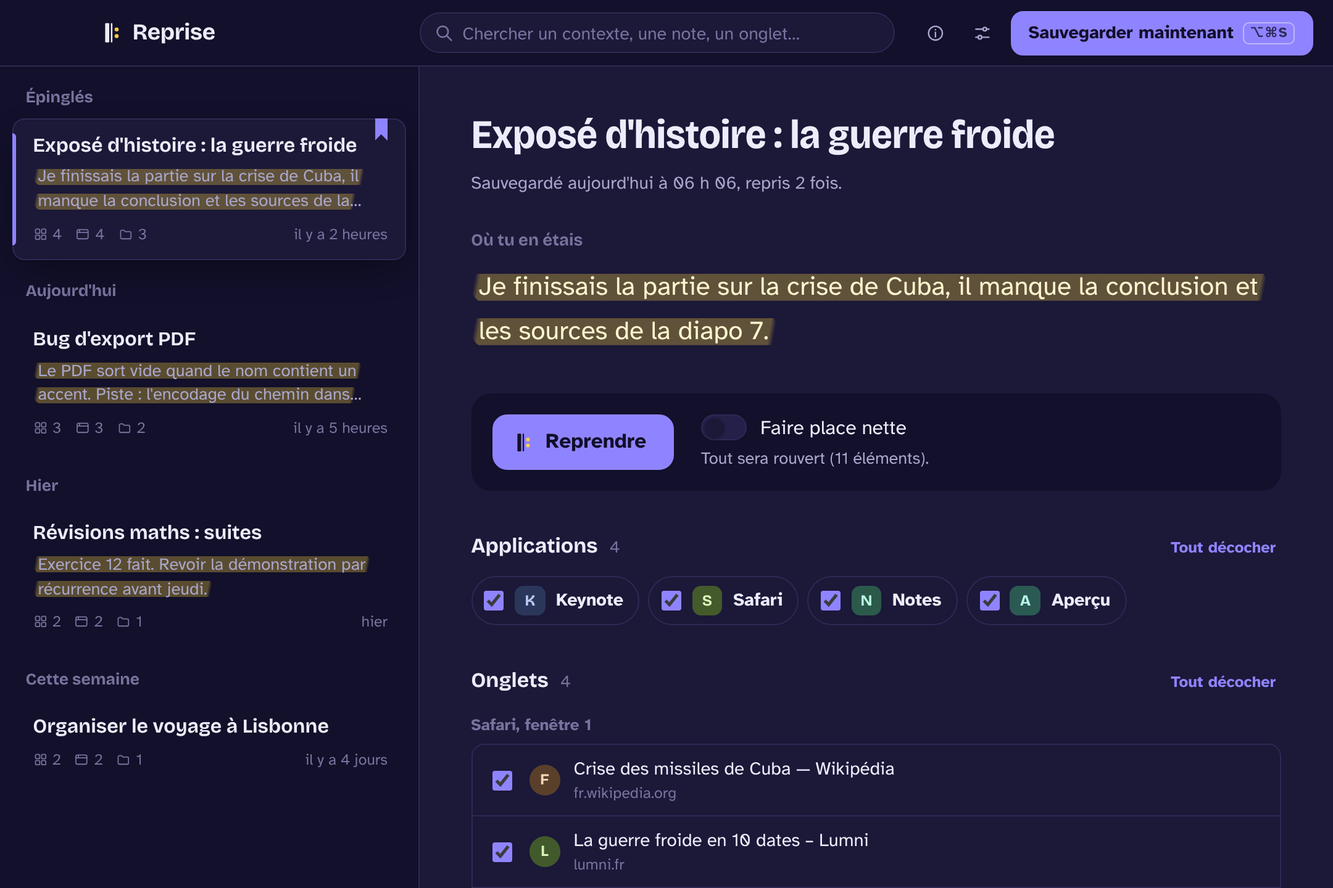
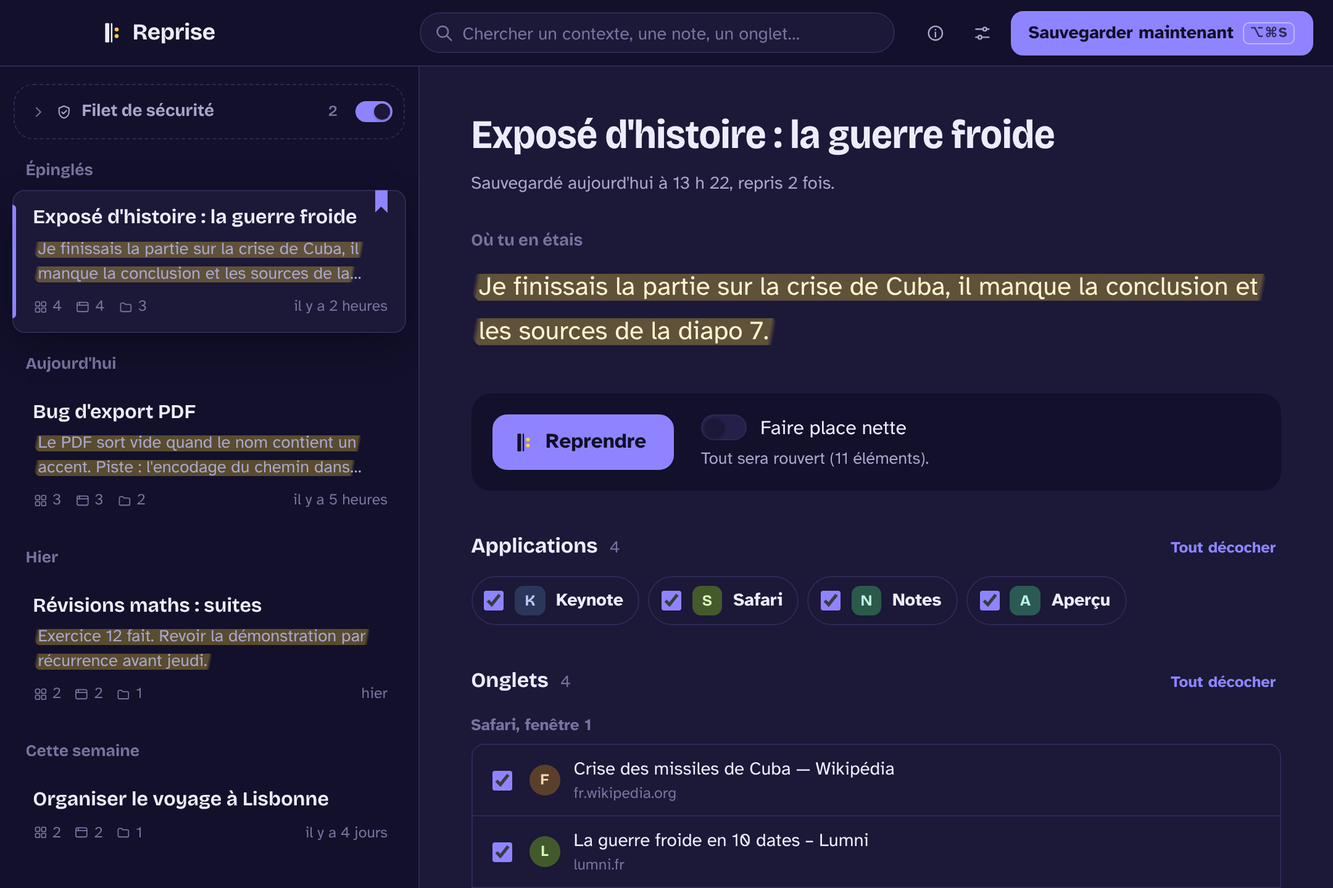
Site et lis-moi : filet de sécurité, habillages, Opera, nouvelles captures

diff --git a/docs/index.html b/docs/index.html
@@ -5,6 +5,9 @@
   <meta name="viewport" content="width=device-width, initial-scale=1">
   <title>Reprise, pour reprendre là où tu t'étais arrêté</title>
   <meta name="description" content="Une app gratuite pour Mac : sauvegarde tes apps, onglets et dossiers ouverts en un raccourci, avec une phrase « où j'en étais », et remets tout en place en un clic.">
+  <meta property="og:title" content="Reprise, pour reprendre là où tu t'étais arrêté">
+  <meta property="og:description" content="Un raccourci sauvegarde tes apps, tes onglets et tes dossiers. Un clic remet tout en place. Gratuit, pour Mac.">
+  <meta property="og:image" content="screenshots/main_light.png">
   <link rel="icon" href="icon.png">
   <style>
     @font-face { font-family: "Bricolage"; src: url("fonts/BricolageGrotesque.ttf") format("truetype"); font-weight: 200 800; font-stretch: 75% 100%; font-display: swap; }
@@ -12,72 +15,120 @@
     @font-face { font-family: "Atkinson"; src: url("fonts/AtkinsonHyperlegible-Bold.ttf") format("truetype"); font-weight: 700; font-display: swap; }
 
     :root {
-      --paper: #F3F2FA; --surface: #FFFFFF; --ink: #1C1939; --ink-2: #5D5980; --line: #DFDCEF;
-      --ribbon: #4A3ED0; --ribbon-ink: #FFFFFF; --marker: #FFE16B; --marker-ink: #1C1939;
+      --paper: #F3F2FA; --surface: #FFFFFF; --surface-2: #EAE8F6; --ink: #1C1939; --ink-2: #5D5980; --ink-3: #8C89AC; --line: #DFDCEF;
+      --ribbon: #4A3ED0; --ribbon-ink: #FFFFFF; --ribbon-soft: #E3E0FB; --marker: #FFE16B; --marker-ink: #1C1939; --dot: #F2C94C;
       color-scheme: light;
     }
     @media (prefers-color-scheme: dark) {
       :root:not([data-theme="light"]) {
-        --paper: #12102A; --surface: #1B1838; --ink: #EDECFB; --ink-2: #A9A6CC; --line: #2D2954;
-        --ribbon: #8F84FF; --ribbon-ink: #120F2B; --marker: rgba(255,214,61,.30); --marker-ink: #FFF6CF;
+        --paper: #12102A; --surface: #1B1838; --surface-2: #24204A; --ink: #EDECFB; --ink-2: #A9A6CC; --ink-3: #77739E; --line: #2D2954;
+        --ribbon: #8F84FF; --ribbon-ink: #120F2B; --ribbon-soft: #2B2660; --marker: rgba(255,214,61,.30); --marker-ink: #FFF6CF;
         color-scheme: dark;
       }
     }
     :root[data-theme="dark"] {
-      --paper: #12102A; --surface: #1B1838; --ink: #EDECFB; --ink-2: #A9A6CC; --line: #2D2954;
-      --ribbon: #8F84FF; --ribbon-ink: #120F2B; --marker: rgba(255,214,61,.30); --marker-ink: #FFF6CF;
+      --paper: #12102A; --surface: #1B1838; --surface-2: #24204A; --ink: #EDECFB; --ink-2: #A9A6CC; --ink-3: #77739E; --line: #2D2954;
+      --ribbon: #8F84FF; --ribbon-ink: #120F2B; --ribbon-soft: #2B2660; --marker: rgba(255,214,61,.30); --marker-ink: #FFF6CF;
       color-scheme: dark;
     }
     * { box-sizing: border-box; }
+    html { scroll-behavior: smooth; }
+    @media (prefers-reduced-motion: reduce) { html { scroll-behavior: auto; } }
     body { margin: 0; background: var(--paper); color: var(--ink); font: 400 1.0625rem/1.6 "Atkinson", -apple-system, system-ui, sans-serif; -webkit-font-smoothing: antialiased; }
     a { color: inherit; }
-    .wrap { max-width: 68rem; margin: 0 auto; padding: 0 1rem; }
-    header.top { display: flex; align-items: center; justify-content: space-between; padding: 1.2rem 0; }
+    img { max-width: 100%; height: auto; }
+    .wrap { max-width: 70rem; margin: 0 auto; padding: 0 1rem; }
+
+    /* En-tête */
+    header.top { display: flex; align-items: center; justify-content: space-between; gap: 1rem; padding: 1.2rem 0; }
     .brand { display: flex; align-items: center; gap: .6rem; font: 700 1.2rem "Bricolage", sans-serif; text-decoration: none; }
     .brand img { width: 2rem; height: 2rem; }
-    .gh { font-weight: 700; font-size: .95rem; text-decoration: none; color: var(--ink-2); }
-    .gh:hover { color: var(--ink); }
+    nav.links { display: flex; flex-wrap: wrap; gap: .2rem 1.1rem; font-size: .95rem; font-weight: 700; }
+    nav.links a { text-decoration: none; color: var(--ink-2); }
+    nav.links a:hover { color: var(--ink); }
 
-    .hero { padding: 3.5rem 0 2.5rem; display: grid; grid-template-columns: auto 1fr; gap: 0 2.5rem; align-items: start; }
+    /* Accroche */
+    .hero { padding: 3rem 0 2.5rem; display: grid; grid-template-columns: auto 1fr; gap: 0 2.5rem; align-items: start; }
     .sign { width: 4.6rem; height: 6.2rem; color: var(--ink); margin-top: .6rem; }
     h1 { font: 700 clamp(2.4rem, 6vw, 4.4rem)/1.02 "Bricolage", sans-serif; font-stretch: 88%; letter-spacing: -.025em; margin: 0 0 1.2rem; max-width: 14ch; }
     .lede { font-size: 1.25rem; color: var(--ink-2); max-width: 36rem; margin: 0 0 1.8rem; }
-    .lede .m { color: var(--marker-ink); background: linear-gradient(100deg, transparent .15em, var(--marker) .35em, var(--marker) calc(100% - .35em), transparent calc(100% - .15em)) 0 70% / 100% 78% no-repeat; padding: 0 .25em; -webkit-box-decoration-break: clone; box-decoration-break: clone; }
+    .m { color: var(--marker-ink); background: linear-gradient(100deg, transparent .15em, var(--marker) .35em, var(--marker) calc(100% - .35em), transparent calc(100% - .15em)) 0 70% / 100% 78% no-repeat; padding: 0 .25em; -webkit-box-decoration-break: clone; box-decoration-break: clone; }
     .cta { display: flex; flex-wrap: wrap; align-items: center; gap: .8rem 1.2rem; }
     .btn { display: inline-flex; align-items: center; gap: .6rem; background: var(--ribbon); color: var(--ribbon-ink); text-decoration: none; font-weight: 700; padding: .85rem 1.3rem; border-radius: 12px; }
     .btn:hover { filter: brightness(1.08); }
+    .btn.ghost { background: transparent; color: var(--ink); border: 1px solid var(--line); }
     .fine { font-size: .9rem; color: var(--ink-2); }
 
-    .shot { margin: 1rem 0 4rem; border-radius: 14px; overflow: hidden; border: 1px solid var(--line); box-shadow: 0 30px 70px -30px rgba(28,25,57,.45); background: var(--surface); }
-    .shot img { display: block; width: 100%; height: auto; }
+    .shot { margin: 1rem 0 4.5rem; border-radius: 14px; overflow: hidden; border: 1px solid var(--line); box-shadow: 0 30px 70px -30px rgba(28,25,57,.45); background: var(--surface); }
+    .shot img { display: block; width: 100%; }
+    .shot .dark { display: none; }
+    @media (prefers-color-scheme: dark) { .shot .light { display: none; } .shot .dark { display: block; } }
 
-    .steps { display: grid; grid-template-columns: repeat(3, 1fr); gap: 1.2rem; margin-bottom: 4.5rem; }
+    /* Titres de section */
+    section { margin-bottom: 5rem; }
+    .kicker { font: 700 .85rem "Atkinson", sans-serif; letter-spacing: .06em; text-transform: uppercase; color: var(--ribbon); margin: 0 0 .5rem; }
+    h2 { font: 700 clamp(1.8rem, 3.8vw, 2.6rem)/1.08 "Bricolage", sans-serif; letter-spacing: -.015em; margin: 0 0 1rem; }
+    .intro { color: var(--ink-2); max-width: 40rem; margin: 0 0 2rem; font-size: 1.1rem; }
+
+    /* Trois gestes */
+    .steps { display: grid; grid-template-columns: repeat(3, 1fr); gap: 1.2rem; }
     .step { background: var(--surface); border: 1px solid var(--line); border-radius: 16px; padding: 1.5rem; }
     .step .n { font: 700 2.4rem/1 "Bricolage", sans-serif; color: var(--ribbon); }
-    .step h2 { font: 700 1.25rem/1.25 "Bricolage", sans-serif; margin: .7rem 0 .4rem; }
+    .step h3 { font: 700 1.25rem/1.25 "Bricolage", sans-serif; margin: .7rem 0 .4rem; }
     .step p { margin: 0; color: var(--ink-2); }
     kbd { font: 700 .9em "Atkinson", sans-serif; border: 1px solid currentColor; border-radius: 6px; padding: .05em .4em; }
 
-    .duo { display: grid; grid-template-columns: 1.1fr 1fr; gap: 2.5rem; align-items: center; margin-bottom: 4.5rem; }
-    .duo h2 { font: 700 clamp(1.7rem, 3.5vw, 2.4rem)/1.1 "Bricolage", sans-serif; letter-spacing: -.015em; margin: 0 0 1rem; }
+    /* Blocs texte + image */
+    .duo { display: grid; grid-template-columns: 1.05fr 1fr; gap: 3rem; align-items: center; }
+    .duo.flip > :first-child { order: 2; }
+    .duo > *, .steps > *, .styles > *, .cards > * { min-width: 0; }
     .duo ul { padding-left: 1.1rem; margin: 0; color: var(--ink-2); }
-    .duo li { margin: .45rem 0; }
+    .duo li { margin: .5rem 0; }
     .duo li strong { color: var(--ink); }
     .pics { display: flex; gap: 1rem; align-items: flex-start; }
-    .pics img { border-radius: 12px; border: 1px solid var(--line); box-shadow: 0 20px 50px -25px rgba(28,25,57,.5); height: auto; }
+    .frame { border-radius: 12px; border: 1px solid var(--line); box-shadow: 0 20px 50px -25px rgba(28,25,57,.5); display: block; }
 
-    .install { background: var(--surface); border: 1px solid var(--line); border-radius: 18px; padding: 2rem; margin-bottom: 4rem; }
-    .install h2 { font: 700 1.6rem "Bricolage", sans-serif; margin: 0 0 1rem; }
-    .install ol { margin: 0; padding-left: 1.2rem; }
-    .install li { margin: .5rem 0; }
-    code { font: .95em ui-monospace, "SF Mono", Menlo, monospace; background: var(--paper); border: 1px solid var(--line); border-radius: 6px; padding: .1em .4em; }
-    footer { padding: 2rem 0 3rem; color: var(--ink-2); font-size: .92rem; border-top: 1px solid var(--line); }
+    /* Habillages */
+    .styles { display: grid; grid-template-columns: repeat(2, 1fr); gap: 1.2rem; }
+    .style { margin: 0; background: var(--surface); border: 1px solid var(--line); border-radius: 16px; overflow: hidden; }
+    .style img { display: block; width: 100%; border-bottom: 1px solid var(--line); }
+    .style figcaption { padding: .9rem 1.1rem 1rem; }
+    .style b { font: 700 1.1rem "Bricolage", sans-serif; }
+    .style .when { display: inline-block; margin-left: .4rem; font-size: .78rem; font-weight: 700; color: var(--ribbon); background: var(--ribbon-soft); border-radius: 1em; padding: .1em .6em; vertical-align: .15em; }
+    .style p { margin: .25rem 0 0; color: var(--ink-2); font-size: .95rem; }
+    .dock { display: flex; flex-wrap: wrap; align-items: center; gap: 1.2rem 2rem; margin-top: 2rem; padding: 1.4rem 1.6rem; background: var(--surface); border: 1px solid var(--line); border-radius: 16px; }
+    .dock .icons { display: flex; gap: .4rem; }
+    .dock .icons img { width: 4.2rem; height: 4.2rem; }
+    .dock p { margin: 0; flex: 1 1 18rem; color: var(--ink-2); }
+    .dock p strong { color: var(--ink); }
+    .notes { display: flex; gap: .8rem; margin-top: 1rem; max-width: 40rem; }
+    .notes img { width: 50%; border-radius: 10px; box-shadow: 0 14px 30px -18px rgba(28,25,57,.55); }
 
-    @media (max-width: 760px) {
-      .hero { grid-template-columns: 1fr; padding-top: 2rem; }
+    /* Navigateurs */
+    .chips { display: flex; flex-wrap: wrap; gap: .5rem; margin: 0; padding: 0; list-style: none; }
+    .chips li { background: var(--surface); border: 1px solid var(--line); border-radius: 999px; padding: .35rem .9rem; font-weight: 700; font-size: .95rem; }
+    .chips li.new::after { content: "nouveau"; margin-left: .45rem; font-size: .72rem; color: var(--ribbon); background: var(--ribbon-soft); border-radius: 1em; padding: .1em .5em; }
+    .chips li.no { color: var(--ink-3); font-weight: 400; }
+
+    /* Installation et confiance */
+    .cards { display: grid; grid-template-columns: repeat(2, 1fr); gap: 1.2rem; }
+    .card { background: var(--surface); border: 1px solid var(--line); border-radius: 18px; padding: 1.8rem; }
+    .card h3 { font: 700 1.35rem "Bricolage", sans-serif; margin: 0 0 .8rem; }
+    .card ol, .card ul { margin: 0; padding-left: 1.2rem; }
+    .card li { margin: .5rem 0; }
+    .card p { margin: .6rem 0 0; color: var(--ink-2); }
+    code { font: .92em ui-monospace, "SF Mono", Menlo, monospace; background: var(--paper); border: 1px solid var(--line); border-radius: 6px; padding: .1em .4em; overflow-wrap: anywhere; }
+
+    footer { padding: 2rem 0 3rem; color: var(--ink-2); font-size: .92rem; border-top: 1px solid var(--line); display: flex; flex-wrap: wrap; gap: .5rem 1.5rem; justify-content: space-between; }
+
+    @media (max-width: 820px) {
+      .hero { grid-template-columns: 1fr; padding-top: 1.5rem; }
       .sign { width: 2.6rem; height: 3.5rem; margin-bottom: 1rem; }
-      .steps, .duo { grid-template-columns: 1fr; }
-      .pics img { min-width: 0; }
+      .steps, .duo, .styles, .cards { grid-template-columns: minmax(0, 1fr); }
+      .duo.flip > :first-child { order: 0; }
+      .duo { gap: 1.8rem; }
+      nav.links { display: none; }
+      .dock .icons img { width: 3.2rem; height: 3.2rem; }
     }
   </style>
 </head>
@@ -85,60 +136,152 @@
   <div class="wrap">
     <header class="top">
       <a class="brand" href="#"><img src="icon.png" alt="">Reprise</a>
-      <a class="gh" href="https://github.com/RenzVASA/reprise">Code source sur GitHub</a>
+      <nav class="links" aria-label="Sur cette page">
+        <a href="#filet">Filet de sécurité</a>
+        <a href="#habillages">Habillages</a>
+        <a href="#installer">Installer</a>
+        <a href="https://github.com/RenzVASA/reprise">Code source</a>
+      </nav>
     </header>
 
-    <section class="hero">
+    <div class="hero">
       <svg class="sign" viewBox="0 0 48 64" aria-hidden="true"><rect x="4" y="6" width="11" height="52" rx="2" fill="currentColor"/><rect x="19.5" y="6" width="4" height="52" rx="1.5" fill="currentColor"/><circle cx="35" cy="23" r="5.5" fill="#F2C94C"/><circle cx="35" cy="41" r="5.5" fill="#F2C94C"/></svg>
       <div>
         <h1>Reprends là où tu t'étais arrêté.</h1>
         <p class="lede">Un raccourci sauvegarde tes apps, tes onglets, tes dossiers et tes fichiers ouverts, avec une phrase : <span class="m">où j'en étais</span>. Un clic remet tout en place.</p>
         <div class="cta">
           <a class="btn" href="https://github.com/RenzVASA/reprise/releases/latest">Télécharger pour Mac</a>
-          <span class="fine">Gratuit et open source. Mac Apple Silicon, macOS 11 ou plus récent.</span>
+          <span class="fine">Gratuit et open source. Mac Apple Silicon, macOS 11 ou plus récent.<br>Se met à jour tout seul.</span>
         </div>
+      </div>
+    </div>
+
+    <div class="shot">
+      <img class="light" src="screenshots/main_light.png" alt="La fenêtre principale de Reprise, avec un contexte « Exposé d'histoire » et sa note surlignée" width="2160" height="1440">
+      <img class="dark" src="screenshots/main_dark.png" alt="La fenêtre principale de Reprise en mode sombre" width="2160" height="1440" loading="lazy">
+    </div>
+
+    <section aria-labelledby="gestes">
+      <p class="kicker">Comment ça marche</p>
+      <h2 id="gestes">Trois gestes, pas un de plus.</h2>
+      <div class="steps">
+        <div class="step"><div class="n">1</div><h3>Appuie sur <kbd>⌥⌘S</kbd></h3><p>Depuis n'importe quelle app. Reprise photographie ce qui est ouvert : apps, onglets fenêtre par fenêtre, dossiers, fichiers.</p></div>
+        <div class="step"><div class="n">2</div><h3>Écris une phrase</h3><p>Ce que tu faisais, la prochaine étape, ce qui bloquait. Entrée, c'est sauvegardé. Tu peux décocher ce qui n'a rien à voir.</p></div>
+        <div class="step"><div class="n">3</div><h3>Clique sur Reprendre</h3><p>Plus tard, tout se rouvre, chaque fenêtre à sa place, et ta phrase t'attend sur un post-it. <kbd>⌥⇧⌘R</kbd> reprend le dernier contexte d'un coup.</p></div>
       </div>
     </section>
 
-    <div class="shot"><img src="screenshots/main_light.png" alt="La fenêtre principale de Reprise, avec un contexte « Exposé d'histoire » et sa note surlignée" width="2160" height="1440"></div>
-
-    <section class="steps" aria-label="Comment ça marche">
-      <div class="step"><div class="n">1</div><h2>Appuie sur <kbd>⌥⌘S</kbd></h2><p>Depuis n'importe quelle app. Reprise photographie ce qui est ouvert.</p></div>
-      <div class="step"><div class="n">2</div><h2>Écris une phrase</h2><p>Ce que tu faisais, la prochaine étape, ce qui bloquait. Entrée, c'est sauvegardé.</p></div>
-      <div class="step"><div class="n">3</div><h2>Clique sur Reprendre</h2><p>Plus tard, tout se rouvre à sa place et ta phrase t'attend sur un post-it.</p></div>
-    </section>
-
-    <section class="duo">
+    <section class="duo" aria-labelledby="pense">
       <div>
-        <h2>Pensé pour les cerveaux qui sautent d'une tâche à l'autre.</h2>
+        <p class="kicker">Pour qui</p>
+        <h2 id="pense">Pensé pour les cerveaux qui sautent d'une tâche à l'autre.</h2>
         <ul>
           <li><strong>Un seul geste à retenir</strong>, Entrée pour valider, Échap pour annuler.</li>
           <li><strong>Des débuts de phrase</strong> pour ne jamais rester devant une page blanche.</li>
           <li><strong>Tu choisis ce qu'on garde</strong>, et les apps sans rapport (Spotify, Messages…) peuvent être ignorées pour toujours.</li>
-          <li><strong>Polices de lecture</strong> : Atkinson Hyperlegible, Lexend, OpenDyslexic.</li>
+          <li><strong>Polices de lecture</strong> : Atkinson Hyperlegible, Lexend, OpenDyslexic, et la taille du texte se règle.</li>
           <li><strong>Faire place nette</strong> : masque tout le reste quand tu reprends.</li>
-          <li><strong>Un filet de sécurité</strong> : si tu oublies de sauvegarder, Reprise le fait toute seule quand tu t'absentes.</li>
           <li><strong>Les fenêtres reviennent à leur place</strong>, même sur un deuxième écran.</li>
           <li><strong>Tout reste sur ton Mac.</strong> Aucun compte, aucun traceur.</li>
         </ul>
       </div>
       <div class="pics">
-        <img src="screenshots/capture.png" alt="La fenêtre de sauvegarde" width="1120" height="1200" style="width:58%">
-        <img src="screenshots/note.png" alt="Le post-it « Tu en étais là »" width="720" height="420" style="width:42%">
+        <img class="frame" src="screenshots/capture.png" alt="La fenêtre de sauvegarde, avec la question « Où tu en es ? »" width="1120" height="1200" style="width:58%" loading="lazy">
+        <img class="frame" src="screenshots/note.png" alt="Le post-it « Tu en étais là »" width="720" height="420" style="width:42%" loading="lazy">
       </div>
     </section>
 
-    <section class="install" id="installer">
-      <h2>Installer</h2>
-      <ol>
-        <li>Télécharge le fichier <code>.dmg</code> depuis la <a href="https://github.com/RenzVASA/reprise/releases/latest">dernière version</a>.</li>
-        <li>Glisse Reprise dans le dossier Applications.</li>
-        <li>Reprise n'est pas signée par Apple. La première fois, ouvre le Terminal et colle <code>xattr -cr /Applications/Reprise.app</code>, puis lance l'app.</li>
-      </ol>
+    <section class="duo flip" id="filet" aria-labelledby="filet-titre">
+      <div>
+        <p class="kicker">Filet de sécurité</p>
+        <h2 id="filet-titre">Tu as oublié de sauvegarder ? Reprise l'a fait.</h2>
+        <ul>
+          <li><strong>Quand tu verrouilles ton Mac</strong>, qu'il se met en veille ou que tu t'absentes, Reprise garde une photo de ce qui était ouvert.</li>
+          <li><strong>Jamais pendant une vidéo.</strong> YouTube, un film, un stream : tant qu'une app garde l'écran allumé, Reprise sait que tu es là.</li>
+          <li><strong>Rangé dans un dossier</strong> en haut de la liste, plié par défaut. Les 3 dernières sauvegardes sont gardées.</li>
+          <li><strong>Un interrupteur</strong> sur le dossier le coupe ou le rallume en un geste.</li>
+          <li><strong>« Tu étais sur… »</strong> : en revenant d'une vraie pause, un post-it te propose de reprendre.</li>
+        </ul>
+      </div>
+      <img class="frame" src="screenshots/safety.png" alt="Le dossier « Filet de sécurité » déplié, avec deux sauvegardes automatiques et son interrupteur" width="680" height="980" style="max-width:24rem;justify-self:center" loading="lazy">
+    </section>
+
+    <section id="habillages" aria-labelledby="hab-titre">
+      <p class="kicker">Habillages</p>
+      <h2 id="hab-titre">Change de décor, ou laisse la saison décider.</h2>
+      <p class="intro">Classique, Forêt ou Océan, en clair ou en sombre. Et deux fois par an, Reprise se déguise toute seule, puis revient comme avant. Ça se coupe d'un clic dans les réglages.</p>
+      <div class="styles">
+        <figure class="style">
+          <img src="screenshots/style_foret.png" alt="Reprise en habillage Forêt, mode clair" width="1080" height="720" loading="lazy">
+          <figcaption><b>Forêt</b><p>Des verts doux, comme un carnet de terrain.</p></figcaption>
+        </figure>
+        <figure class="style">
+          <img src="screenshots/style_ocean.png" alt="Reprise en habillage Océan, mode sombre" width="1080" height="720" loading="lazy">
+          <figcaption><b>Océan</b><p>Bleu profond et surligneur menthe.</p></figcaption>
+        </figure>
+        <figure class="style">
+          <img src="screenshots/style_halloween.png" alt="Reprise en habillage Halloween, mode sombre, avec des chauves-souris dans la barre du haut" width="1080" height="720" loading="lazy">
+          <figcaption><b>Halloween</b><span class="when">15 oct. → 2 nov.</span><p>Orange et violet, des chauves-souris en haut, une citrouille sur le post-it.</p></figcaption>
+        </figure>
+        <figure class="style">
+          <img src="screenshots/style_noel.png" alt="Reprise en habillage Noël, mode clair, avec des flocons dans la barre du haut" width="1080" height="720" loading="lazy">
+          <figcaption><b>Noël</b><span class="when">1er déc. → 6 janv.</span><p>Rouge et vert sapin, un peu de neige qui tombe, du houx sur le post-it.</p></figcaption>
+        </figure>
+      </div>
+      <div class="dock">
+        <div class="icons">
+          <img src="screenshots/icons/classique.png" alt="Icône Classique" width="256" height="256" loading="lazy">
+          <img src="screenshots/icons/foret.png" alt="Icône Forêt" width="256" height="256" loading="lazy">
+          <img src="screenshots/icons/ocean.png" alt="Icône Océan" width="256" height="256" loading="lazy">
+          <img src="screenshots/icons/halloween.png" alt="Icône Halloween, avec des citrouilles" width="256" height="256" loading="lazy">
+          <img src="screenshots/icons/noel.png" alt="Icône Noël, avec des boules de sapin" width="256" height="256" loading="lazy">
+        </div>
+        <p><strong>L'icône du Dock suit l'habillage</strong> tant que Reprise est ouverte. La neige s'arrête si tu as activé « Réduire les animations ».</p>
+      </div>
+      <div class="notes">
+        <img src="screenshots/note_halloween.png" alt="Le post-it en habillage Halloween, avec une citrouille" width="720" height="420" loading="lazy">
+        <img src="screenshots/note_noel.png" alt="Le post-it en habillage Noël, avec du houx" width="720" height="420" loading="lazy">
+      </div>
+    </section>
+
+    <section aria-labelledby="nav-titre">
+      <p class="kicker">Navigateurs</p>
+      <h2 id="nav-titre">Tes onglets, fenêtre par fenêtre.</h2>
+      <ul class="chips">
+        <li>Safari</li><li>Chrome</li><li>Brave</li><li>Edge</li><li>Arc</li><li>Vivaldi</li><li class="new">Opera</li><li class="new">Opera GX</li>
+        <li class="no">Firefox : l'app est rouverte, mais il ne laisse pas lire ses onglets</li>
+      </ul>
+    </section>
+
+    <section id="installer" aria-labelledby="inst-titre">
+      <p class="kicker">Installer</p>
+      <h2 id="inst-titre">Deux minutes, une seule fois.</h2>
+      <div class="cards">
+        <div class="card">
+          <h3>Installer</h3>
+          <ol>
+            <li>Télécharge le fichier <code>.dmg</code> de la <a href="https://github.com/RenzVASA/reprise/releases/latest">dernière version</a>.</li>
+            <li>Glisse Reprise dans le dossier Applications.</li>
+            <li>La première fois seulement, ouvre le Terminal et colle <code>xattr -cr /Applications/Reprise.app</code>, puis lance l'app. Une petite visite guidée t'explique tout.</li>
+          </ol>
+          <p>Ensuite, Reprise se met à jour toute seule : elle te prévient, tu cliques, elle redémarre à jour.</p>
+        </div>
+        <div class="card">
+          <h3>Pourquoi tu peux lui faire confiance</h3>
+          <ul>
+            <li><strong>Code ouvert</strong> : tout est lisible sur <a href="https://github.com/RenzVASA/reprise">GitHub</a>.</li>
+            <li><strong>Fabriquée par GitHub</strong> à partir de ce code, avec une preuve de provenance et une empreinte SHA-256 publiées à chaque version.</li>
+            <li><strong>Mises à jour signées</strong> : Reprise refuse toute mise à jour qui ne porte pas la signature de son auteur.</li>
+            <li><strong>Signée RenzVASA</strong> : macOS reconnaît l'app d'une version à l'autre et garde tes autorisations.</li>
+            <li><strong>Rien ne sort de ton Mac.</strong> La seule connexion sert à vérifier s'il y a une nouvelle version, et elle se coupe.</li>
+          </ul>
+        </div>
+      </div>
     </section>
 
     <footer>
-      Vibe codée par RenzVASA avec Claude, l'IA d'Anthropic. Licence MIT.
+      <span>Vibe codée par RenzVASA avec Claude, l'IA d'Anthropic. Licence MIT.</span>
+      <span><a href="https://github.com/RenzVASA/reprise/blob/main/CHANGELOG.md">Nouveautés</a> · <a href="https://github.com/RenzVASA/reprise">Code source</a> · <a href="https://github.com/RenzVASA">Autres projets</a></span>
     </footer>
   </div>
 </body>

diff --git a/README.md b/README.md
@@ -60,6 +60,7 @@ Reprise est utile à tout le monde, mais il a été pensé d'abord pour les pers
 | Filet de sécurité | Sauvegarde automatique au verrouillage, à la mise en veille ou après 5 minutes d'inactivité, sauf pendant une vidéo ou un stream. Les 3 dernières sont rangées dans un dossier qui s'active ou se désactive d'un clic. Post-it « Tu étais sur… » au retour |
 | Choix | Décocher des éléments au moment de sauvegarder, liste d'apps à ne jamais enregistrer |
 | Barre des menus | Sauvegarde et reprise des contextes récents sans ouvrir la fenêtre |
+| Habillages | Classique, Forêt, Océan, en clair ou en sombre. Halloween (15 octobre → 2 novembre) et Noël (1er décembre → 6 janvier) arrivent et repartent tout seuls. L'icône du Dock et le post-it suivent l'habillage |
 | Mises à jour | Reprise prévient quand une nouvelle version sort, la télécharge, vérifie sa signature, l'installe et redémarre, en un clic |
 | Aide | Visite guidée au premier lancement, astuce à la première sauvegarde, et le bouton « i » qui explique tout |
 | Organisation | Recherche dans les noms, les notes et les onglets, épinglage, renommage, mise à jour d'un contexte avec ce qui est ouvert maintenant, suppression avec « Annuler » |
@@ -83,7 +84,7 @@ Reprise est utile à tout le monde, mais il a été pensé d'abord pour les pers
 Chaque version publie l'**empreinte SHA-256** de son `.dmg` (dans le texte de la Release et dans un fichier `.sha256` à côté). C'est une sorte d'empreinte digitale : si le fichier a été modifié, même d'un seul octet, l'empreinte change complètement.
 
 ```bash
-shasum -a 256 ~/Downloads/Reprise_1.0.0_aarch64.dmg
+shasum -a 256 ~/Downloads/Reprise_*_aarch64.dmg
 ```
 
 Compare le résultat avec l'empreinte affichée sur la page de la Release : les deux doivent être identiques.
@@ -91,8 +92,12 @@ Compare le résultat avec l'empreinte affichée sur la page de la Release : les 
 Le `.dmg` est fabriqué directement par GitHub Actions à partir du code public de ce dépôt, et GitHub signe sa provenance. Pour le vérifier (avec l'outil [GitHub CLI](https://cli.github.com)) :
 
 ```bash
-gh attestation verify ~/Downloads/Reprise_1.0.0_aarch64.dmg -R RenzVASA/reprise
+gh attestation verify ~/Downloads/Reprise_*_aarch64.dmg -R RenzVASA/reprise
 ```
+
+### Signée RenzVASA
+
+Depuis la version 1.1.2, l'app est signée avec le certificat RenzVASA. Ce n'est pas un certificat payant d'Apple (d'où la commande `xattr` ci-dessus), mais il permet à macOS de reconnaître Reprise d'une version à l'autre : tes autorisations (Automatisation, Accessibilité) restent en place après chaque mise à jour.
 
 ### Les autorisations demandées
 
@@ -144,6 +149,8 @@ Pour travailler le design sans lancer l'app : `npm run apercu`, puis ouvre <http
 
 ```
 src/                 interface : fenêtre principale, fenêtre de sauvegarde, post-it
+  css/themes.css     les habillages (Forêt, Océan, Halloween, Noël)
+design/styles/       les icônes du Dock de chaque habillage (SVG)
 src-tauri/src/
   lib.rs             démarrage, fenêtres, barre des menus, raccourcis, commandes
   capture.rs         la photo du contexte
@@ -177,6 +184,7 @@ Chaque Release contient un fichier `latest.json` qui annonce la dernière versio
 - Une mini-liste de prochaines étapes à cocher sur le post-it.
 - Une corbeille : un contexte supprimé reste 30 jours.
 - Export et import des contextes.
+- D'autres habillages de saison (printemps, rentrée…).
 
 ## Crédits
 
